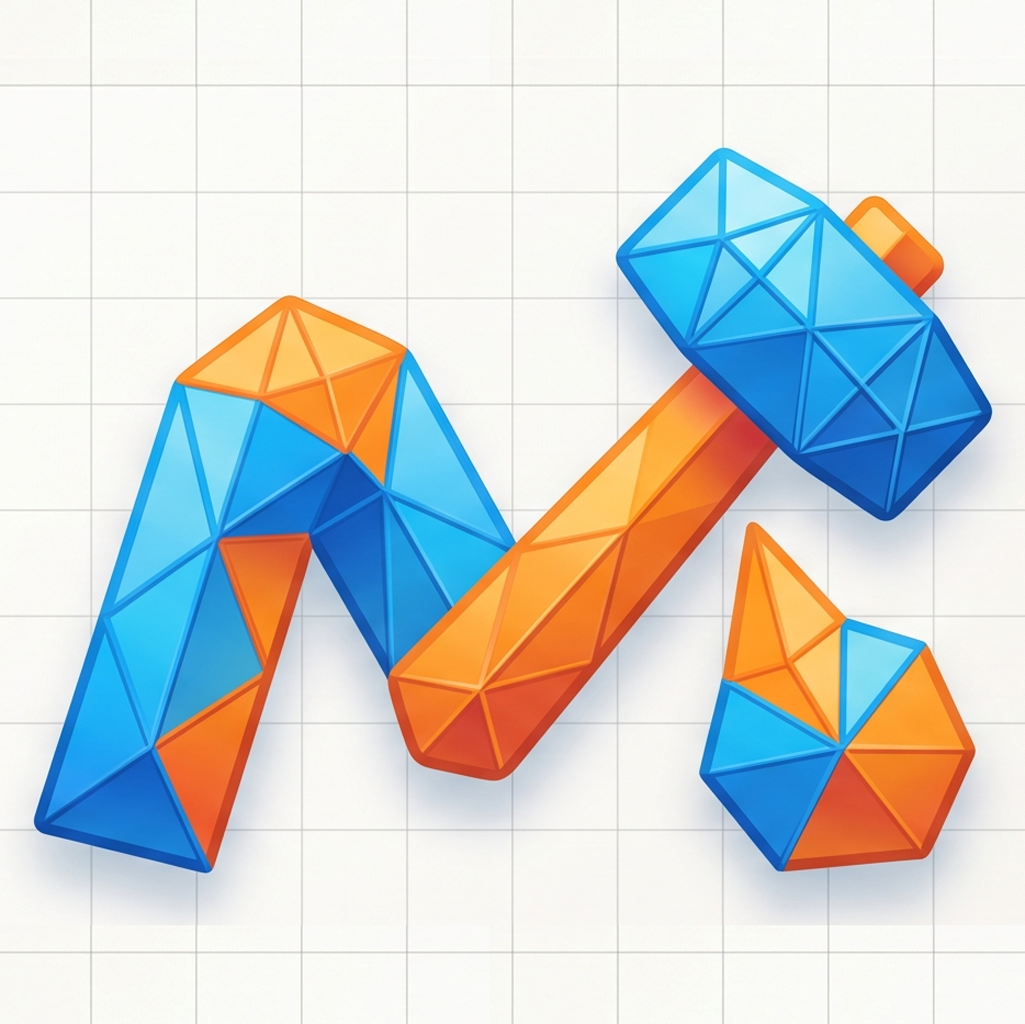
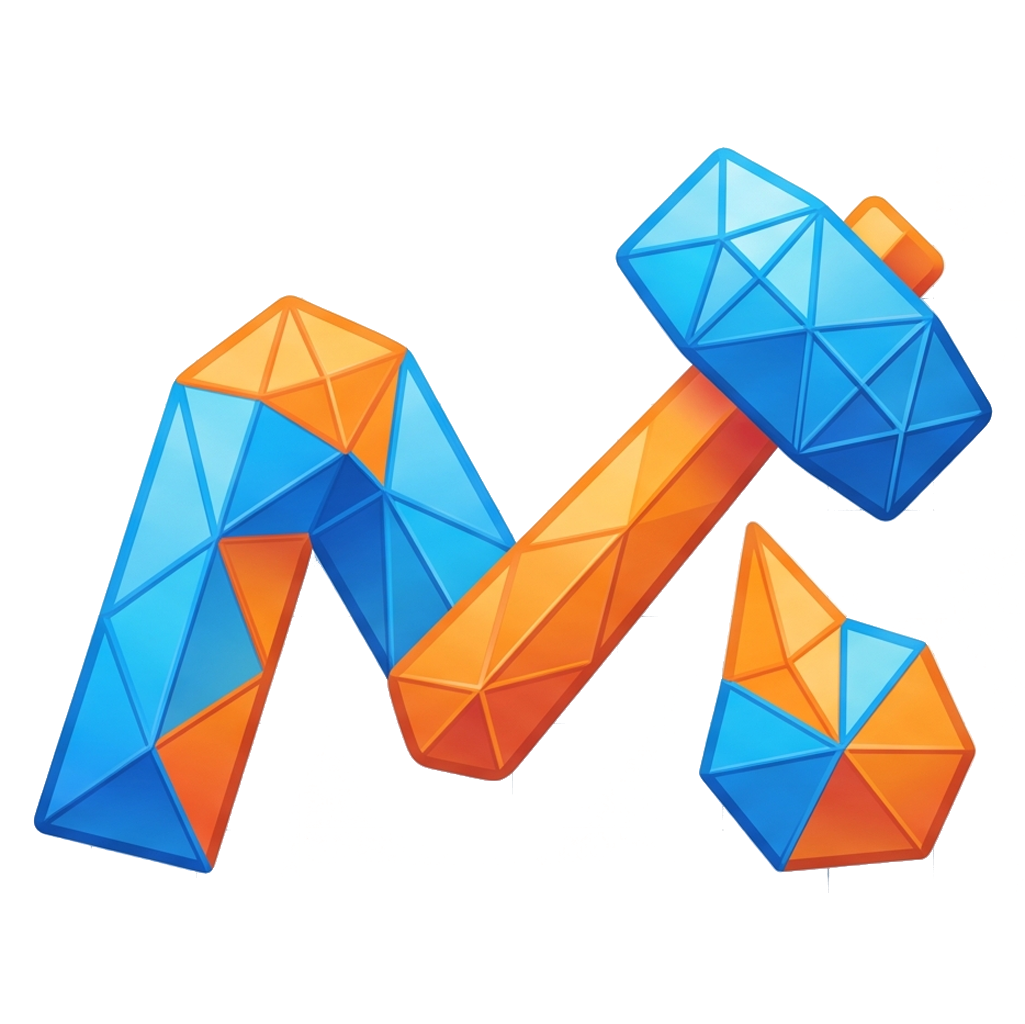
electron fixes

diff --git a/deploy/electron/main.js b/deploy/electron/main.js
@@ -1,13 +1,143 @@
-const { app, BrowserWindow, shell, Menu } = require("electron");
+const { app, BrowserWindow, shell, Menu, protocol } = require("electron");
 const path = require("node:path");
 const fs = require("node:fs");
+const fsp = require("node:fs/promises");
 
 const staticRoot = path.join(__dirname, "..", "..", "apps", "web", "out");
-// The desktop app skips the marketing landing and boots straight into the editor.
-// If the /app subroute isn't present (older export), fall back to /index.html.
-const appIndex = path.join(staticRoot, "app", "index.html");
-const rootIndex = path.join(staticRoot, "index.html");
-const indexPath = fs.existsSync(appIndex) ? appIndex : rootIndex;
+
+/**
+ * Why a custom scheme:
+ *
+ * The static export emits absolute asset URLs like `/_next/static/chunks/foo.js`.
+ * Under `file:` the browser resolves those against the filesystem root, which
+ * 404s. Under a *standard* custom scheme, absolute paths resolve against the
+ * URL's host, so we can map them cleanly to the export directory.
+ *
+ * `meshysmith://app/app/` -> `<staticRoot>/app/index.html`
+ * `meshysmith://app/_next/static/chunks/foo.js` -> `<staticRoot>/_next/static/chunks/foo.js`
+ * `meshysmith://app/icon.png` -> `<staticRoot>/icon.png`
+ */
+const SCHEME = "meshysmith";
+const HOST = "app";
+
+// Must be called *before* app is ready.
+protocol.registerSchemesAsPrivileged([
+  {
+    scheme: SCHEME,
+    privileges: {
+      standard: true,
+      secure: true,
+      supportFetchAPI: true,
+      stream: true,
+      bypassCSP: true,
+    },
+  },
+]);
+
+const MIME_TYPES = {
+  ".html": "text/html; charset=utf-8",
+  ".js": "application/javascript; charset=utf-8",
+  ".mjs": "application/javascript; charset=utf-8",
+  ".css": "text/css; charset=utf-8",
+  ".json": "application/json; charset=utf-8",
+  ".map": "application/json; charset=utf-8",
+  ".webmanifest": "application/manifest+json; charset=utf-8",
+  ".txt": "text/plain; charset=utf-8",
+  ".xml": "application/xml; charset=utf-8",
+  ".svg": "image/svg+xml",
+  ".png": "image/png",
+  ".jpg": "image/jpeg",
+  ".jpeg": "image/jpeg",
+  ".gif": "image/gif",
+  ".webp": "image/webp",
+  ".ico": "image/x-icon",
+  ".woff": "font/woff",
+  ".woff2": "font/woff2",
+  ".ttf": "font/ttf",
+  ".otf": "font/otf",
+  ".eot": "application/vnd.ms-fontobject",
+  ".wasm": "application/wasm",
+  ".glb": "model/gltf-binary",
+  ".gltf": "model/gltf+json",
+};
+
+function contentTypeFor(filePath) {
+  const ext = path.extname(filePath).toLowerCase();
+  return MIME_TYPES[ext] ?? "application/octet-stream";
+}
+
+async function serveFile(target) {
+  const body = await fsp.readFile(target);
+  return new Response(body, {
+    status: 200,
+    headers: {
+      "Content-Type": contentTypeFor(target),
+      "Cache-Control": "no-cache",
+    },
+  });
+}
+
+function registerStaticAssetHandler() {
+  const verbose = process.env.MESHYSMITH_ELECTRON_SMOKE === "1"
+    || process.env.MESHYSMITH_DEVTOOLS === "1";
+  protocol.handle(SCHEME, async (request) => {
+    let target;
+    try {
+      const parsed = new URL(request.url);
+      // Strip the leading slash; we want relative paths under staticRoot.
+      let pathname = decodeURIComponent(parsed.pathname).replace(/^\/+/, "");
+      // Strip query strings (Next emits cache-busted hrefs like icon.png?...).
+      const queryIndex = pathname.indexOf("?");
+      if (queryIndex >= 0) {
+        pathname = pathname.slice(0, queryIndex);
+      }
+      // Empty path or directory-style URL -> serve index.html for that segment.
+      if (pathname === "" || pathname.endsWith("/")) {
+        pathname += "index.html";
+      }
+      target = path.join(staticRoot, pathname);
+    } catch (err) {
+      console.error("[meshysmith] bad URL:", request.url, err);
+      return new Response("Bad request", { status: 400 });
+    }
+
+    try {
+      // Direct file hit.
+      if (fileExists(target)) {
+        if (verbose) console.log("[meshysmith] 200", request.url, "->", target);
+        return await serveFile(target);
+      }
+
+      // Directory route — Next emits /app/ -> apps/web/out/app/index.html.
+      const directoryAttempt = path.join(target, "index.html");
+      if (fileExists(directoryAttempt)) {
+        if (verbose) console.log("[meshysmith] 200(dir)", request.url, "->", directoryAttempt);
+        return await serveFile(directoryAttempt);
+      }
+
+      // Next's trailingSlash mode also writes `<route>.html` siblings; fall back.
+      const htmlAttempt = target.replace(/\/?$/, ".html");
+      if (fileExists(htmlAttempt)) {
+        if (verbose) console.log("[meshysmith] 200(html)", request.url, "->", htmlAttempt);
+        return await serveFile(htmlAttempt);
+      }
+    } catch (err) {
+      console.error("[meshysmith] read failed", request.url, "->", target, err);
+      return new Response(`Read failed: ${err.message}`, { status: 500 });
+    }
+
+    console.error("[meshysmith] 404", request.url, "->", target);
+    return new Response(`Not found: ${target}`, { status: 404 });
+  });
+}
+
+function fileExists(p) {
+  try {
+    return fs.statSync(p).isFile();
+  } catch {
+    return false;
+  }
+}
 
 function createWindow() {
   const win = new BrowserWindow({
@@ -28,23 +158,71 @@ function createWindow() {
 
   win.removeMenu();
 
-  if (!fs.existsSync(indexPath)) {
+  // Decide which page to load. Prefer the editor entry (`/app/`) when the export
+  // includes it; fall back to the landing page (`/`) for older exports.
+  const appIndex = path.join(staticRoot, "app", "index.html");
+  const rootIndex = path.join(staticRoot, "index.html");
+  const startRoute = fs.existsSync(appIndex) ? "app/" : "";
+
+  if (!fs.existsSync(rootIndex)) {
     win.loadURL(
       "data:text/html;charset=utf-8," +
-        encodeURIComponent(missingBuildHtml(indexPath)),
+        encodeURIComponent(missingBuildHtml(rootIndex)),
     );
   } else {
-    win.loadFile(indexPath);
+    win.loadURL(`${SCHEME}://${HOST}/${startRoute}`);
   }
 
-  win.webContents.once("did-finish-load", () => {
+  // Optional DevTools for live debugging (set MESHYSMITH_DEVTOOLS=1).
+  if (process.env.MESHYSMITH_DEVTOOLS === "1") {
+    win.webContents.openDevTools({ mode: "detach" });
+  }
+
+  win.webContents.once("did-finish-load", async () => {
     if (process.env.MESHYSMITH_ELECTRON_SMOKE === "1") {
+      // Give React time to hydrate the dashboard before probing.
+      await new Promise((resolve) => setTimeout(resolve, 3000));
+      try {
+        const probe = await win.webContents.executeJavaScript(
+          `({
+            dashboard: Boolean(document.querySelector(".dashboard-shell")),
+            topbar: Boolean(document.querySelector(".dashboard-topbar")),
+            title: document.title,
+            href: location.href,
+          })`,
+        );
+        console.log("[meshysmith] smoke probe:", JSON.stringify(probe));
+        if (!probe.dashboard || !probe.topbar) {
+          console.error("[meshysmith] dashboard not rendered — smoke failed");
+          app.exit(2);
+          return;
+        }
+      } catch (err) {
+        console.error("[meshysmith] smoke probe failed:", err);
+        app.exit(3);
+        return;
+      }
       setTimeout(() => app.quit(), 250);
     }
   });
+
   win.webContents.on("render-process-gone", (_event, details) => {
     if (details.reason !== "clean-exit") {
       console.error("[meshysmith] renderer gone:", details);
+    }
+  });
+
+  win.webContents.on("did-fail-load", (_event, code, description, url) => {
+    console.error(`[meshysmith] did-fail-load ${code} ${description} url=${url}`);
+  });
+
+  // Surface renderer console messages so issues are visible in the terminal.
+  const verboseConsole = process.env.MESHYSMITH_ELECTRON_SMOKE === "1"
+    || process.env.MESHYSMITH_DEVTOOLS === "1";
+  win.webContents.on("console-message", (event) => {
+    if (verboseConsole || event.level >= 2) {
+      const stream = event.level >= 2 ? console.error : console.log;
+      stream(`[renderer ${event.sourceId}:${event.lineNumber}]`, event.message);
     }
   });
 
@@ -57,7 +235,7 @@ function createWindow() {
 
   win.webContents.on("will-navigate", (event, url) => {
     const target = new URL(url);
-    if (target.protocol !== "file:") {
+    if (target.protocol !== `${SCHEME}:`) {
       event.preventDefault();
       if (target.protocol === "http:" || target.protocol === "https:") {
         shell.openExternal(url);
@@ -67,17 +245,9 @@ function createWindow() {
 }
 
 function resolveIcon() {
-  // On Windows the .ico format gives the crispest title-bar / taskbar rendering.
-  // On macOS the BrowserWindow icon is ignored (the .icns inside the app bundle is what shows).
-  // On Linux PNG is fine. We probe in order and use whatever exists.
   const candidates = process.platform === "win32"
-    ? [
-        path.join(__dirname, "icon.ico"),
-        path.join(__dirname, "icon.png"),
-      ]
-    : [
-        path.join(__dirname, "icon.png"),
-      ];
+    ? [path.join(__dirname, "icon.ico"), path.join(__dirname, "icon.png")]
+    : [path.join(__dirname, "icon.png")];
   candidates.push(
     path.join(staticRoot, "assets", "meshysmith", "meshysmith-logo.png"),
     path.join(__dirname, "..", "..", "apps", "web", "public", "assets", "meshysmith", "meshysmith-logo.png"),
@@ -93,14 +263,13 @@ function missingBuildHtml(expectedPath) {
 <p>Run <code>npm run export</code> first to generate the static export, then relaunch.</p>`;
 }
 
-// Group taskbar windows under "MeshySmith" instead of the generic "Electron" entry.
-// Must run before whenReady on Windows; harmless on macOS/Linux.
 if (process.platform === "win32") {
   app.setAppUserModelId("dev.f00d4tehg0dz.meshysmith");
 }
 
 app.whenReady().then(() => {
   Menu.setApplicationMenu(null);
+  registerStaticAssetHandler();
   createWindow();
 
   app.on("activate", () => {

diff --git a/apps/web/next.config.ts b/apps/web/next.config.ts
@@ -19,7 +19,10 @@ const nextConfig: NextConfig = {
     ? {
         output: "export" as const,
         trailingSlash: true,
-        assetPrefix: "./",
+        // No assetPrefix — emit absolute `/_next/...` paths so nested routes
+        // (e.g. /app/) resolve assets correctly. Docker serves the export root
+        // through nginx, and Electron registers a `file:` protocol handler that
+        // resolves absolute paths against `apps/web/out/` (see deploy/electron/main.js).
       }
     : {}),
 };